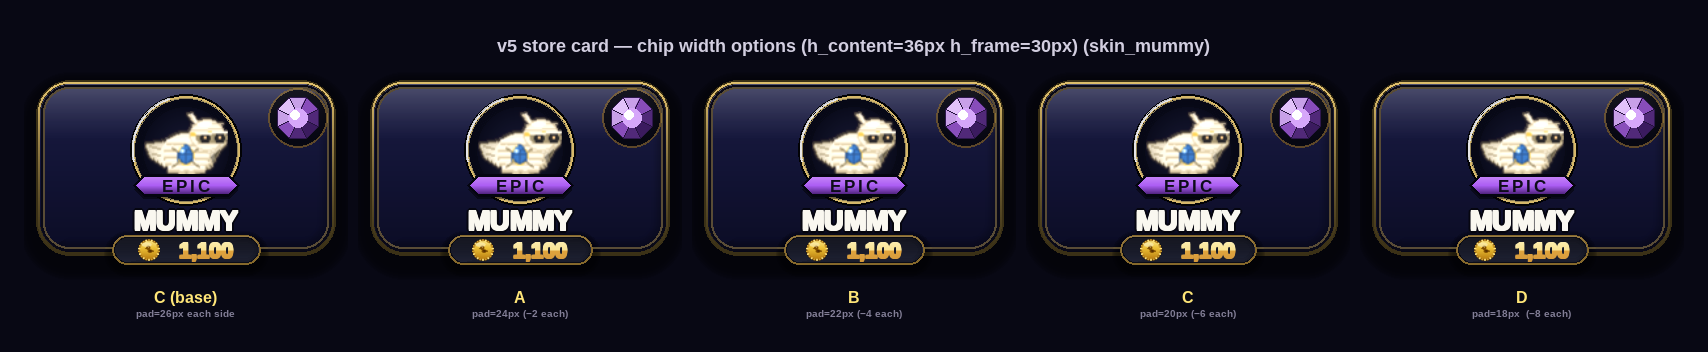
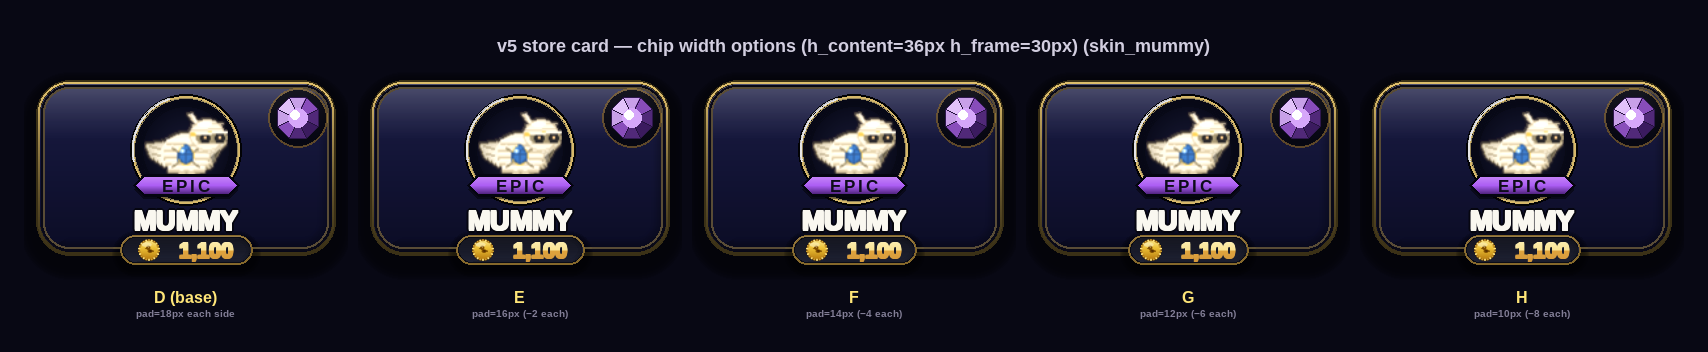
chip-width showcase: extend options beyond D (pad m(9)→m(5))
Shows D as base through H (pad=m(5)=10px each side), exploring
how tight the pill can go before elements feel cramped.

Claude-Session: https://claude.ai/code/session_01DaGYw11VdAubog2VGiiucC

diff --git a/tools/_store_card_v5_chip_width_showcase.py b/tools/_store_card_v5_chip_width_showcase.py
@@ -155,11 +155,11 @@ def render_card(pad_device):
 
 # ── options ───────────────────────────────────────────────────────────────────
 OPTIONS = [
-    ("C (base)", f"pad={sc.m(13)}px each side", sc.m(13)),
-    ("A",        f"pad={sc.m(12)}px (−2 each)", sc.m(12)),
-    ("B",        f"pad={sc.m(11)}px (−4 each)", sc.m(11)),
-    ("C",        f"pad={sc.m(10)}px (−6 each)", sc.m(10)),
-    ("D",        f"pad={sc.m(9)}px  (−8 each)", sc.m(9)),
+    ("D (base)", f"pad={sc.m(9)}px each side",  sc.m(9)),
+    ("E",        f"pad={sc.m(8)}px (−2 each)",  sc.m(8)),
+    ("F",        f"pad={sc.m(7)}px (−4 each)",  sc.m(7)),
+    ("G",        f"pad={sc.m(6)}px (−6 each)",  sc.m(6)),
+    ("H",        f"pad={sc.m(5)}px (−8 each)",  sc.m(5)),
 ]
 
 # ── layout ────────────────────────────────────────────────────────────────────
